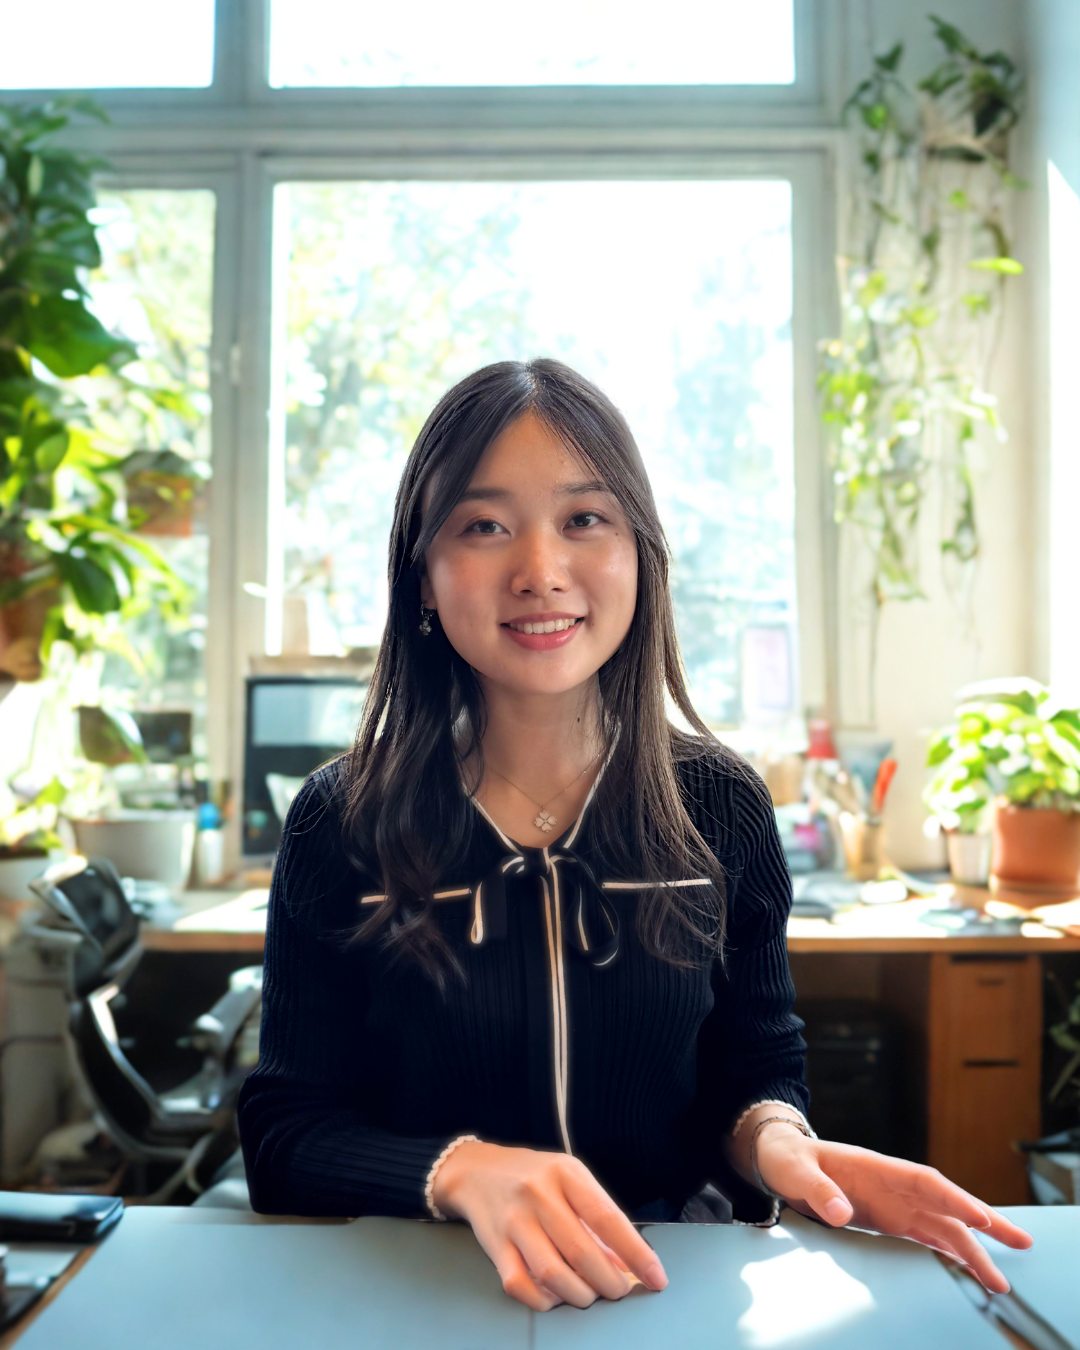
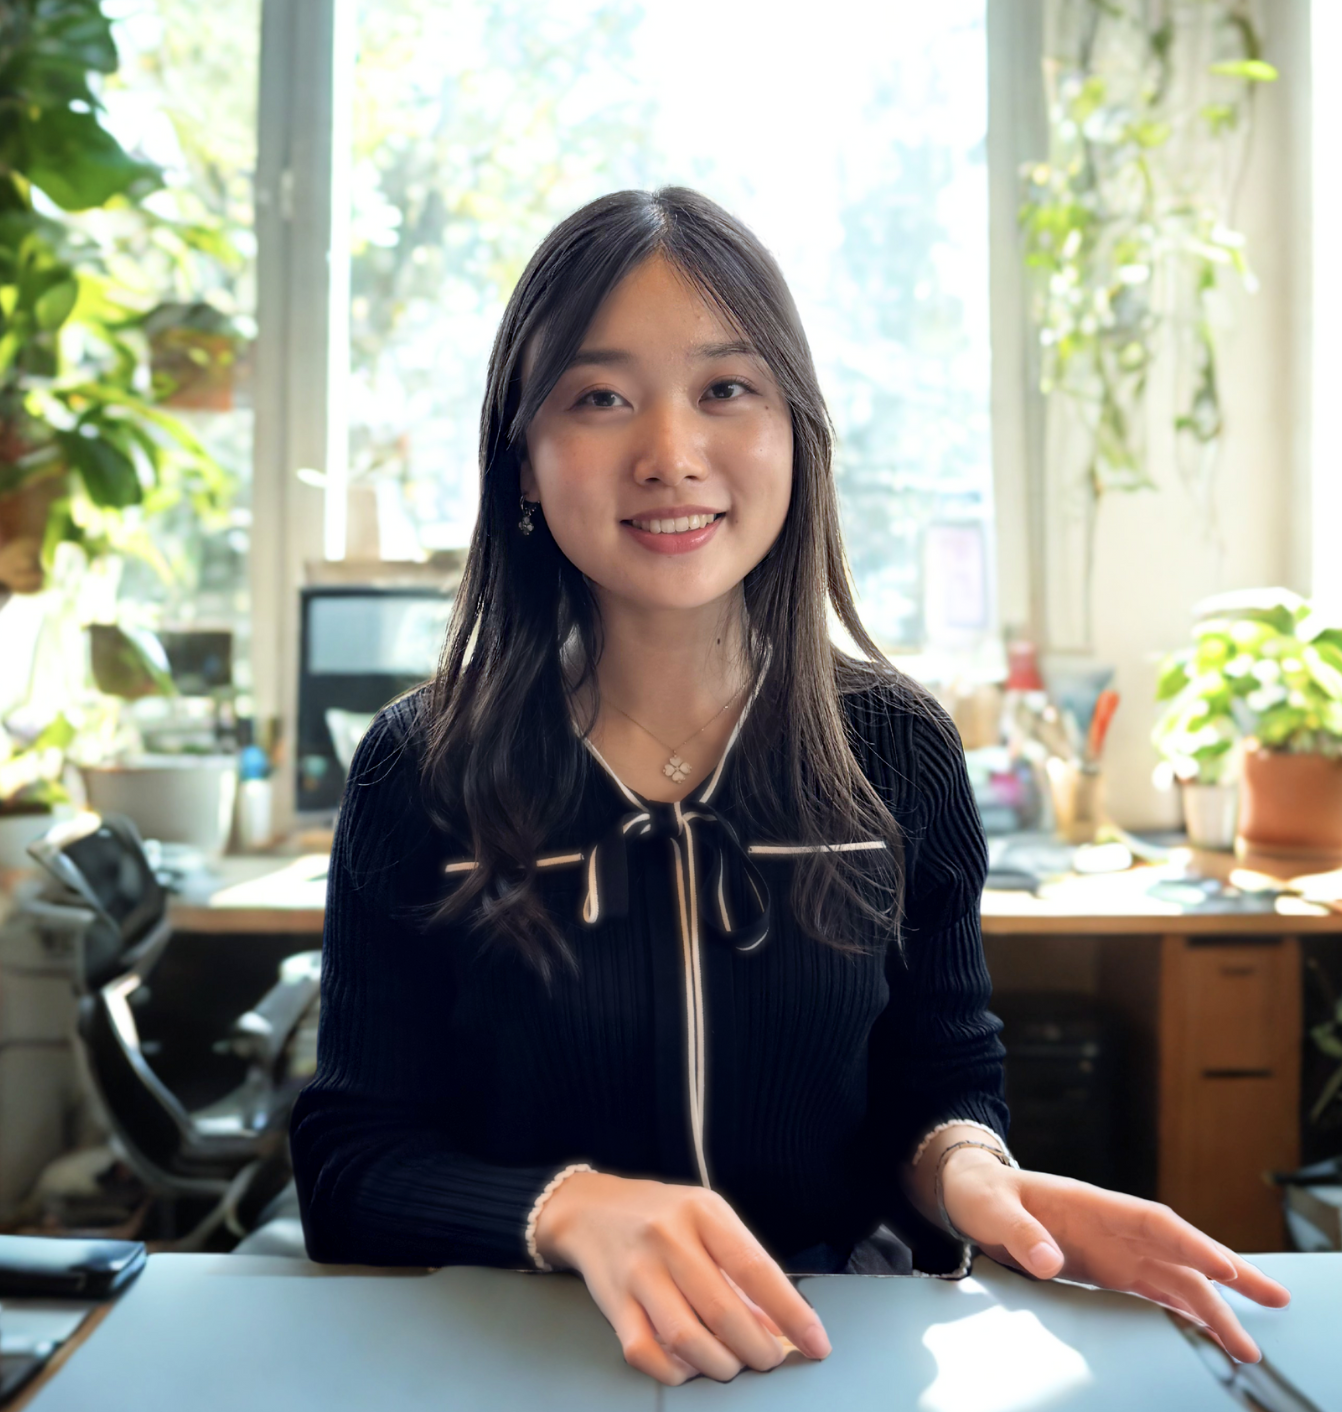
UI improvement - change img size (runa.png)

diff --git a/index.html b/index.html
@@ -63,9 +63,9 @@
         <div class="px-4 flex flex-1 justify-center py-5"> <!-- original:px-20 -->
           <div class="layout-content-container flex flex-col max-w-[960px] flex-1">
             <div class="@container">
-              <div class="flex flex-col gap-6 py-1 @[480px]:gap-8 @[864px]:flex-row">
+              <div class="flex flex-col gap-6 py-1 p @[480px]:gap-8 @[864px]:flex-row">
                 <div>
-                  <img src="images/runa.png" alt="Featured Work Image" class="w-64h-auto">
+                  <img src="images/runa.png" alt="Featured Work Image" class="w-32h-auto">
                </div>
                 <div class="flex flex-col gap-6 @[480px]:min-w-[400px] @[480px]:gap-8 @[864px]:justify-center">
                   <div class="flex flex-col gap-2 text-left">
